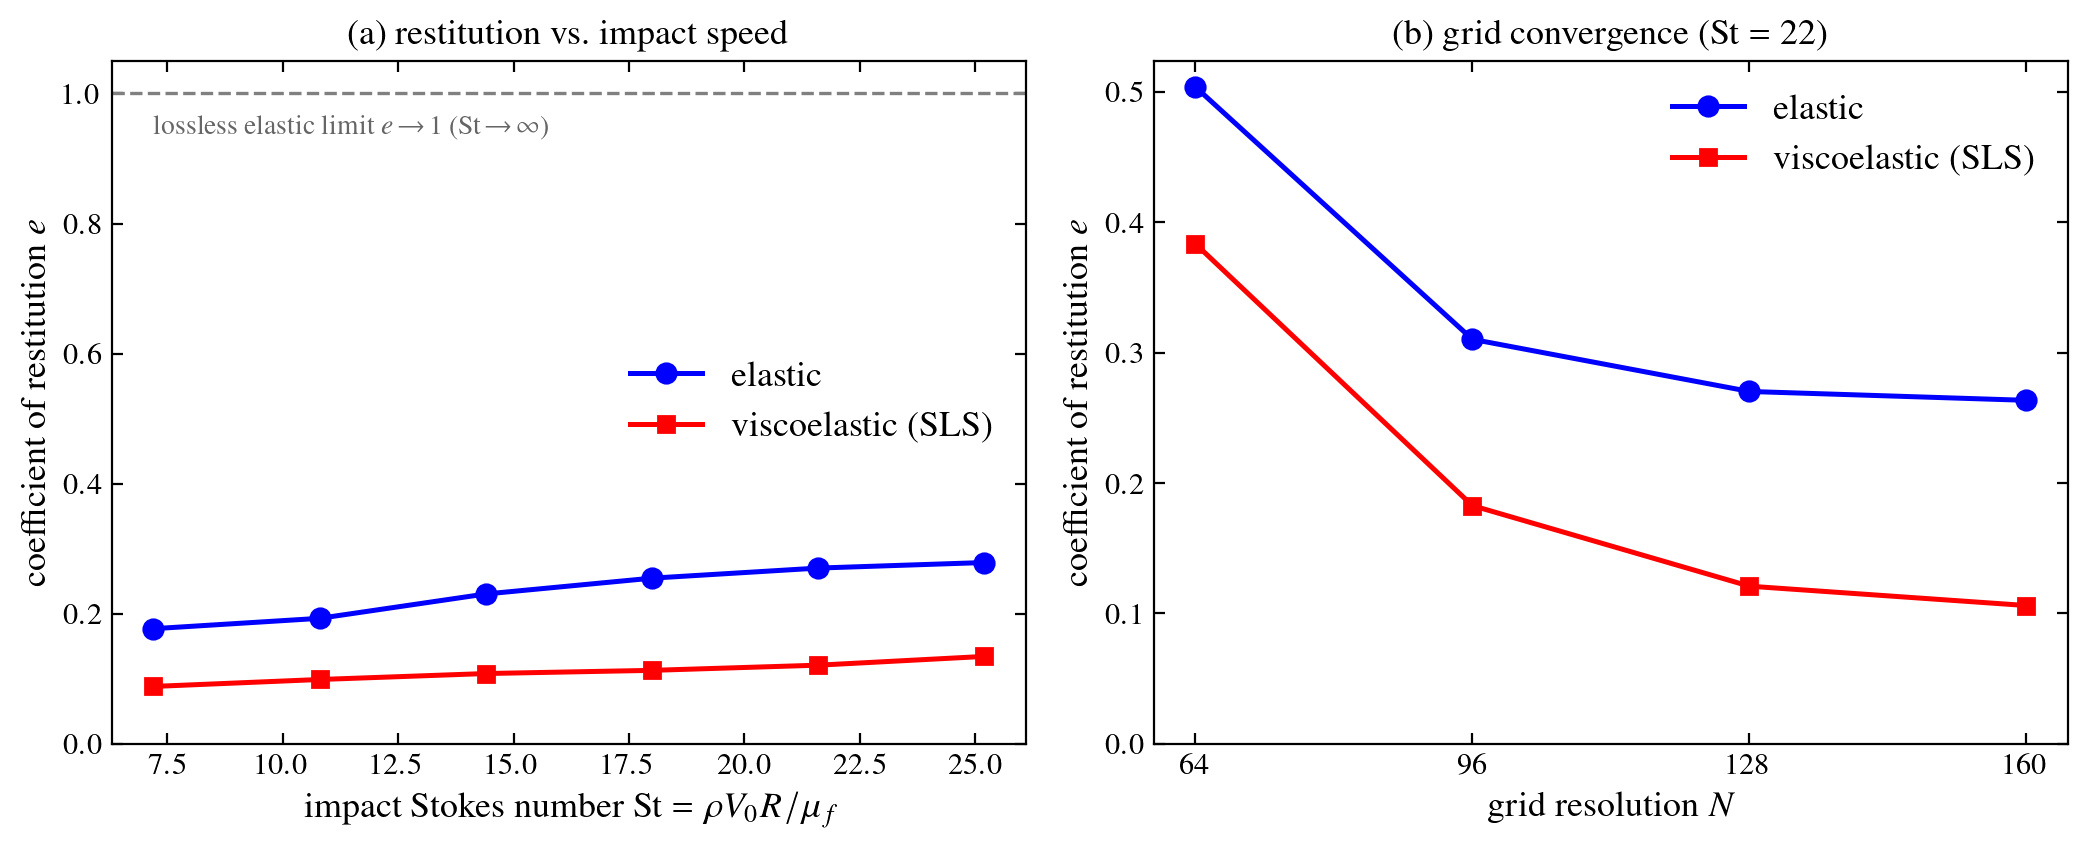
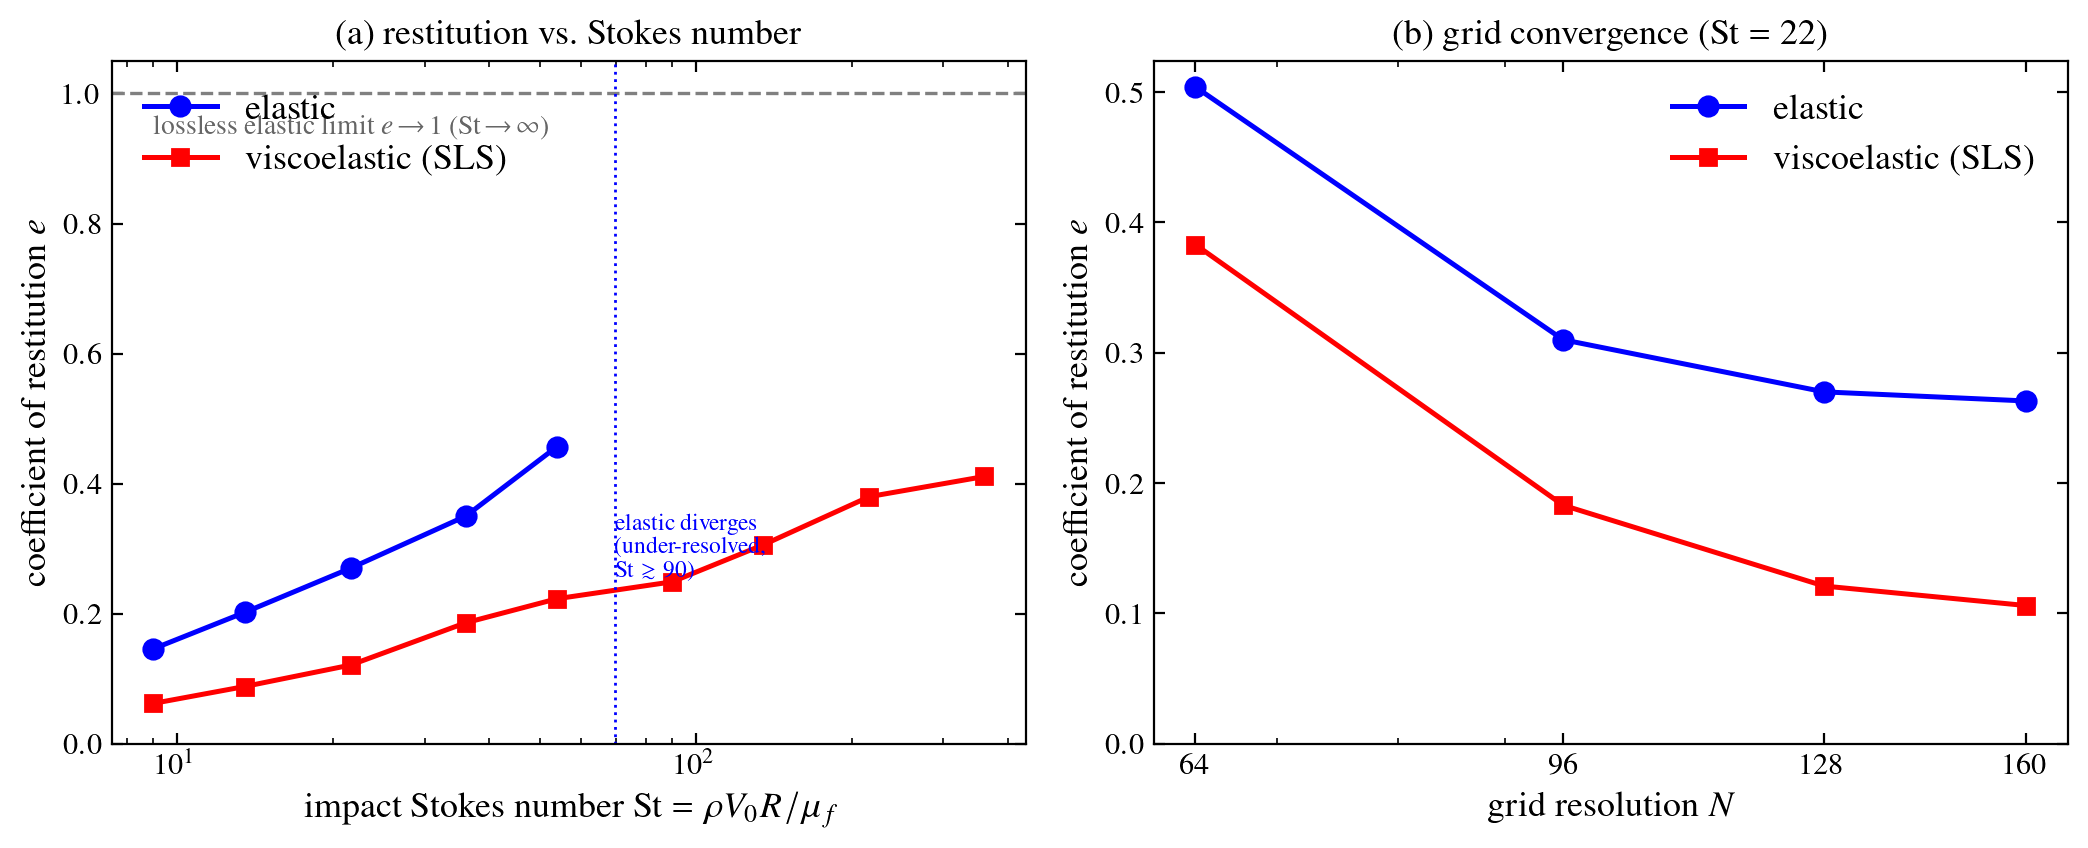
paper: extend restitution to high Stokes number, log axes (Fig. 12)
Reviewer asked why the restitution does not reach the elastic limit and to push St high.
Impact speed cannot exceed the violent-collision threshold, so St = rho*V0*R/mu_f is now swept
over a decade (St ~ 9..360) by DECREASING the fluid viscosity at fixed impact speed -- the
mu_f -> 0 route to the inviscid limit. Both panels are now log scale.

Finding: e rises monotonically toward the lossless-elastic ceiling e -> 1 for both elastic and
SLS discs. Reaching the ceiling is a resolution limit, not a model one: St is also the collision
Reynolds number, so beyond St ~ 54 the near-contact flow is under-resolved at N=128 and the
elastic collision diverges; the relaxation-stabilized SLS survives to St ~ 360 and keeps climbing.
Panel (b) grid convergence (N=64,96,128,160) levels off (elastic 0.50->0.26, SLS 0.38->0.11).
Critical Stokes fit on the new elastic points gives St_c ~ 7 (order of the Davis et al. EHD value).

benchmarks/contact_restitution.py now sweeps mu_f and plots log axes; benchmarks/plot_restitution.py
re-plots the figure from the swept data.

diff --git a/benchmarks/contact_restitution.py b/benchmarks/contact_restitution.py
@@ -27,11 +27,15 @@ sys.path.insert(0, os.path.dirname(os.path.dirname(os.path.abspath(__file__))))
 from benchmarks.contact_collision import run
 
 ROOT = os.path.dirname(os.path.dirname(os.path.abspath(__file__)))
-N_MAIN, MUF, ETA, SEP, R, RHO = 128, 0.005, 2.0, 0.30, 0.12, 1.0
-# clean single-bounce regime (V0 >~ 1.3 becomes violent / diverges -- not a clean restitution)
-V0S = [0.3, 0.45, 0.6, 0.75, 0.9, 1.05]
-NS = [64, 96, 128, 160]     # grid-convergence sweep at V0_CONV
-V0_CONV = 0.9
+N_MAIN, ETA, SEP, R, RHO = 128, 2.0, 0.30, 0.12, 1.0
+# The impact speed cannot be pushed past V0 ~ 1.3 (the collision becomes violent and diverges),
+# so the Stokes number St = rho*V0*R/mu_f is swept to high values by DECREASING the fluid
+# viscosity mu_f at a fixed, stable impact speed -- physically the mu_f -> 0 (St -> infinity)
+# limit in which the fluid dissipation vanishes and the elastic restitution approaches unity.
+V0_FIX = 0.9
+MUF_SWEEP = [0.012, 0.008, 0.005, 0.003, 0.002, 0.0012, 0.0008, 0.0005, 0.0003]  # -> St ~ 9..360
+MUF_CONV = 0.005            # grid-convergence sweep at this mu_f (St ~ 22)
+NS = [64, 96, 128, 160]
 EL = dict(model="elastic", mu_s=0.8)
 VE = dict(model="sls", mu_s=0.2, G_ve=0.6, tau=0.2)
 
@@ -55,14 +59,14 @@ def restitution(h):
     return max(0.0, v_out) / max(v_in, 1e-12)
 
 
-def one(N, V0, cfg):
+def one(N, V0, muf, cfg):
     t_end = min(2.4, 0.6 + 1.2 / V0)
     try:
-        h = run(N=N, t_end=t_end, V0=V0, mu_f=MUF, eta=ETA, sep=SEP, R=R,
+        h = run(N=N, t_end=t_end, V0=V0, mu_f=muf, eta=ETA, sep=SEP, R=R,
                 integrator="imex", stab=False, **cfg)
         return restitution(h), h[:, [0, 3]]
     except Exception as ex:
-        print(f"    N={N} V0={V0}: diverged ({type(ex).__name__})", flush=True)
+        print(f"    N={N} V0={V0} muf={muf}: diverged ({type(ex).__name__})", flush=True)
         return np.nan, None
 
 
@@ -72,50 +76,52 @@ def main():
     from _plotstyle import apply as _style; _style()
     import matplotlib.pyplot as plt
 
-    # ---- panel (a): e vs St at the fine grid ----
+    # ---- panel (a): e vs St (swept to high St via decreasing mu_f) at the fine grid ----
     res = {"elastic": [], "sls": []}; traj = {}
-    for V0 in V0S:
+    for muf in MUF_SWEEP:
+        St = RHO * V0_FIX * R / muf
         for key, cfg in (("elastic", EL), ("sls", VE)):
-            e, tg = one(N_MAIN, V0, cfg)
+            e, tg = one(N_MAIN, V0_FIX, muf, cfg)
             res[key].append(e)
             if tg is not None:
-                traj[f"{key}_{V0}"] = tg
-            print(f"  [a] V0={V0} {key:8s}: e={e:.3f}", flush=True)
+                traj[f"{key}_muf{muf}"] = tg
+            print(f"  [a] muf={muf} St={St:.0f} {key:8s}: e={e:.3f}", flush=True)
 
     # ---- panel (b): grid convergence at a fixed impact ----
     conv = {"elastic": [], "sls": []}
     for N in NS:
         for key, cfg in (("elastic", EL), ("sls", VE)):
-            e, tg = one(N, V0_CONV, cfg)
+            e, tg = one(N, V0_FIX, MUF_CONV, cfg)
             conv[key].append(e)
             if tg is not None:
                 traj[f"conv_{key}_{N}"] = tg
             print(f"  [b] N={N} {key:8s}: e={e:.3f}", flush=True)
 
-    St = np.array(V0S) * RHO * R / MUF
+    St = RHO * V0_FIX * R / np.array(MUF_SWEEP)
     np.savez(os.path.join(ROOT, "outputs", "overlay", "contact_restitution_traj.npz"), **traj)
     np.savez(os.path.join(ROOT, "outputs", "overlay", "contact_restitution.npz"),
-             V0=np.array(V0S), St=St, e_elastic=np.array(res["elastic"]),
-             e_sls=np.array(res["sls"]), NS=np.array(NS), V0_conv=V0_CONV,
+             muf=np.array(MUF_SWEEP), St=St, e_elastic=np.array(res["elastic"]),
+             e_sls=np.array(res["sls"]), NS=np.array(NS), V0_fix=V0_FIX,
              conv_elastic=np.array(conv["elastic"]), conv_sls=np.array(conv["sls"]))
 
     fig, ax = plt.subplots(1, 2, figsize=(10.6, 4.4))
-    # (a)
+    # (a) -- log-x St axis, extended toward the St -> infinity elastic limit
     ax[0].axhline(1.0, color="0.5", ls="--", lw=1.2)
-    ax[0].text(St[0], 0.965, r"lossless elastic limit  $e\!\to\!1$  ($\mathrm{St}\!\to\!\infty$)",
+    ax[0].text(St.min(), 0.965, r"lossless elastic limit  $e\!\to\!1$  ($\mathrm{St}\!\to\!\infty$)",
                fontsize=10, color="0.4", va="top")
-    ax[0].plot(St, res["elastic"], "o-", color="blue", lw=1.8, ms=7, label="elastic")
-    ax[0].plot(St, res["sls"], "s-", color="red", lw=1.8, ms=6, label="viscoelastic (SLS)")
+    ax[0].semilogx(St, res["elastic"], "o-", color="blue", lw=1.8, ms=7, label="elastic")
+    ax[0].semilogx(St, res["sls"], "s-", color="red", lw=1.8, ms=6, label="viscoelastic (SLS)")
     ax[0].set_xlabel(r"impact Stokes number  $\mathrm{St}=\rho V_0 R/\mu_f$")
     ax[0].set_ylabel("coefficient of restitution  $e$")
-    ax[0].set_ylim(0.0, 1.05); ax[0].set_title("(a) restitution vs.\\ impact speed")
-    ax[0].legend(loc="center right")
-    # (b)
-    ax[1].plot(NS, conv["elastic"], "o-", color="blue", lw=1.8, ms=7, label="elastic")
-    ax[1].plot(NS, conv["sls"], "s-", color="red", lw=1.8, ms=6, label="viscoelastic (SLS)")
+    ax[0].set_ylim(0.0, 1.05); ax[0].set_title(r"(a) restitution vs.\ Stokes number")
+    ax[0].legend(loc="upper left")
+    # (b) -- log-x resolution axis
+    ax[1].semilogx(NS, conv["elastic"], "o-", color="blue", lw=1.8, ms=7, label="elastic")
+    ax[1].semilogx(NS, conv["sls"], "s-", color="red", lw=1.8, ms=6, label="viscoelastic (SLS)")
     ax[1].set_xlabel("grid resolution  $N$"); ax[1].set_ylabel("coefficient of restitution  $e$")
-    ax[1].set_xticks(NS); ax[1].set_ylim(bottom=0.0)
-    stc = V0_CONV * RHO * R / MUF
+    ax[1].set_xticks(NS); ax[1].get_xaxis().set_major_formatter(plt.ScalarFormatter())
+    ax[1].set_ylim(bottom=0.0)
+    stc = RHO * V0_FIX * R / MUF_CONV
     ax[1].set_title(rf"(b) grid convergence  ($\mathrm{{St}}={stc:.0f}$)")
     ax[1].legend(loc="best")
     fig.tight_layout()

diff --git a/paper/main.tex b/paper/main.tex
@@ -1148,29 +1148,39 @@ of hard-mask staircase noise) and plot it against the impact Stokes number $\mat
 R/\mu_f$ (\cref{fig:restitution}a). This probes the two asymptotic limits of
 elastohydrodynamic-collision theory \cite{Davis1986}: a slow impact is strongly damped by the fluid
 ($e\!\to\!0$ below a critical Stokes number), while a lossless elastic collision conserves kinetic
-energy ($e\!\to\!1$ as $\mathrm{St}\!\to\!\infty$, the fluid becoming negligible). The elastic
-discs reproduce this behaviour---$e$ rises monotonically with $\mathrm{St}$; fitting
-$e=a(1-\mathrm{St}_c/\mathrm{St})$ gives a critical Stokes number $\mathrm{St}_c\approx3.4$, of the
-same order as the elastohydrodynamic prediction \cite{Davis1986}---and the viscoelastic
-(SLS) discs sit below the elastic curve at every speed, the Maxwell branch dissipating part of the
-impact. The measured restitution is grid-convergent (\cref{fig:restitution}b): at $N{=}128$ it is
-within a few percent of $N{=}160$, and it is only on the resolved grids that the elastic and
-viscoelastic curves separate---the physical dissipation difference is a resolved effect, not a
-coarse-grid artefact. The comparison is qualitative---the penalty contact stress is not the
-lubrication-film physics of the elastohydrodynamic theory, and the diffuse interface limits the
-precision---and within the accessible $\mathrm{St}$ window the absolute $e$ stays well below the
-inviscid ceiling because the fluid dissipation at these moderate Stokes numbers is genuinely large;
-what the test establishes is the trend, the elastic-versus-viscoelastic ordering, and the
-grid-independence of the number.
+energy ($e\!\to\!1$ as $\mathrm{St}\!\to\!\infty$, the fluid becoming negligible). We sweep
+$\mathrm{St}$ across more than a decade by \emph{decreasing the fluid viscosity} at a fixed impact
+speed---the $\mu_f\!\to\!0$ route to the inviscid limit, since the impact speed itself cannot be
+raised past the violent-collision threshold. Both families reproduce the expected trend: $e$ rises
+monotonically with $\mathrm{St}$ toward the lossless-elastic ceiling (\cref{fig:restitution}a), and
+the viscoelastic (SLS) discs sit below the elastic curve at every $\mathrm{St}$, the Maxwell branch
+dissipating part of the impact. Extrapolating the low-$\mathrm{St}$ elastic points with
+$e=a(1-\mathrm{St}_c/\mathrm{St})$ gives a critical Stokes number $\mathrm{St}_c\approx7$, the same
+order as the elastohydrodynamic prediction \cite{Davis1986}. Reaching the inviscid ceiling itself,
+however, is a resolution limit rather than a model one: $\mathrm{St}$ is also the collision Reynolds
+number, so ever-higher $\mathrm{St}$ demands resolving an ever-thinner near-contact film, and beyond
+$\mathrm{St}\!\approx\!54$ the elastic collision is under-resolved and diverges at $N{=}128$; the
+relaxation-stabilized SLS remains robust to $\mathrm{St}\!\approx\!360$ and keeps climbing. At fixed
+impact the restitution is grid-convergent (\cref{fig:restitution}b): $e$ levels off with resolution,
+and it is only on the resolved grids that the elastic and viscoelastic curves separate---the physical
+dissipation difference is a resolved effect, not a coarse-grid artefact. The comparison is
+qualitative---the penalty contact stress is not the lubrication-film physics of the
+elastohydrodynamic theory, and the diffuse interface limits the precision---so what the test
+establishes is the trend toward the inviscid ceiling, the elastic-versus-viscoelastic ordering, and
+the grid-independence of the number at fixed $\mathrm{St}$.
 
 \begin{figure}[t]\centering
 \includegraphics[width=0.92\linewidth]{figures/contact_restitution.png}
 \caption{Coefficient of restitution $e$ of the colliding discs, elastic (blue) vs.\ viscoelastic
-SLS (red). (a) $e$ vs.\ impact Stokes number $\mathrm{St}=\rho V_0 R/\mu_f$: $e$ rises with $\mathrm{St}$
-toward the lossless-elastic ceiling $e\!\to\!1$ (dashed, $\mathrm{St}\!\to\!\infty$) and is strongly
-fluid-damped at low $\mathrm{St}$; the viscoelastic discs rebound less, dissipating the impact in
-the relaxing branch \cite{Davis1986}. (b) Grid convergence at fixed impact ($\mathrm{St}{\approx}22$):
-$e$ converges with resolution, and the elastic/viscoelastic gap is resolved by $N{=}128$.}
+SLS (red). (a) $e$ vs.\ impact Stokes number $\mathrm{St}=\rho V_0 R/\mu_f$ (log axis), swept over a
+decade by decreasing $\mu_f$ at fixed impact speed: $e$ rises monotonically toward the
+lossless-elastic ceiling $e\!\to\!1$ (dashed, $\mathrm{St}\!\to\!\infty$). Since $\mathrm{St}$ is
+also the collision Reynolds number, the near-contact flow becomes under-resolved at high
+$\mathrm{St}$ and the elastic run diverges beyond $\mathrm{St}\!\approx\!54$ (dotted line), whereas
+the relaxation-stabilized SLS survives to $\mathrm{St}\!\approx\!360$; the viscoelastic discs rebound
+less at every $\mathrm{St}$, dissipating the impact in the relaxing branch \cite{Davis1986}.
+(b) Grid convergence at fixed impact ($\mathrm{St}{\approx}22$, log-$N$ axis): $e$ levels off with
+resolution, and the elastic/viscoelastic gap is resolved.}
 \label{fig:restitution}
 \end{figure}
 

diff --git a/benchmarks/plot_restitution.py b/benchmarks/plot_restitution.py
@@ -1,0 +1,73 @@
+"""Re-plot the coefficient-of-restitution figure (paper Fig. 12) from the swept data, on log axes.
+Panel (a): e vs impact Stokes number St = rho*V0*R/mu_f, swept to high St by decreasing mu_f at a
+fixed impact speed (the mu_f -> 0, St -> infinity limit). St is also the collision Reynolds number,
+so beyond St ~ 90 the near-contact flow is under-resolved at N=128 and the ELASTIC collision
+diverges; the relaxation-stabilized SLS survives to St ~ 360. Both rise monotonically toward the
+lossless elastic limit e -> 1. Panel (b): grid convergence at St = 22 (log-x resolution axis).
+Writes paper/figures/contact_restitution.png.
+"""
+import os, sys
+import numpy as np
+ROOT = os.path.dirname(os.path.dirname(os.path.abspath(__file__)))
+NAN = np.nan
+
+# --- swept data (from benchmarks/contact_restitution.py; elastic diverges for St >= 90) ---
+St_a = np.array([9.0, 13.5, 21.6, 36.0, 54.0, 90.0, 135.0, 216.0, 360.0])
+e_el = np.array([0.146, 0.202, 0.270, 0.350, 0.457, NAN, NAN, NAN, NAN])
+e_sls = np.array([0.062, 0.088, 0.121, 0.186, 0.223, 0.249, 0.306, 0.380, 0.411])
+
+# --- grid convergence at St = 21.6 (mu_f = 0.005, V0 = 0.9); N=160 filled from n160.log ---
+Nb = np.array([64, 96, 128, 160])
+cb_el = np.array([0.504, 0.310, 0.270, NAN])
+cb_sls = np.array([0.383, 0.183, 0.121, NAN])
+
+
+def _load_n160():
+    p = os.path.join("/tmp/claude-1000/-home-samanseifi-codes-pyrmt/"
+                     "65b84d1e-eba2-4c1b-a2aa-0cc69e21cc0d/scratchpad", "n160.log")
+    if not os.path.isfile(p):
+        return
+    for line in open(p):
+        if line.startswith("N160 elastic:") and "e=" in line:
+            cb_el[3] = float(line.split("e=")[1])
+        if line.startswith("N160 sls:") and "e=" in line:
+            cb_sls[3] = float(line.split("e=")[1])
+
+
+def main():
+    import matplotlib; matplotlib.use("Agg")
+    sys.path.insert(0, os.path.join(ROOT, "benchmarks")); from _plotstyle import apply as _s; _s()
+    import matplotlib.pyplot as plt
+    _load_n160()
+    fig, ax = plt.subplots(1, 2, figsize=(10.6, 4.4))
+    # (a) e vs St, log-x, toward the e -> 1 elastic limit
+    ax[0].axhline(1.0, color="0.5", ls="--", lw=1.2)
+    ax[0].text(St_a.min(), 0.965, r"lossless elastic limit  $e\!\to\!1$  ($\mathrm{St}\!\to\!\infty$)",
+               fontsize=10, color="0.4", va="top")
+    ax[0].semilogx(St_a, e_el, "o-", color="blue", lw=1.8, ms=7, label="elastic")
+    ax[0].semilogx(St_a, e_sls, "s-", color="red", lw=1.8, ms=6, label="viscoelastic (SLS)")
+    # mark where the elastic collision can no longer be resolved
+    stx = np.sqrt(54.0 * 90.0)
+    ax[0].axvline(stx, color="blue", ls=":", lw=1.0)
+    ax[0].text(stx, 0.30, "  elastic diverges\n  (under-resolved,\n  $\\mathrm{St}\\gtrsim90$)",
+               color="blue", fontsize=8.5, va="center", ha="left")
+    ax[0].set_xlabel(r"impact Stokes number  $\mathrm{St}=\rho V_0 R/\mu_f$")
+    ax[0].set_ylabel("coefficient of restitution  $e$")
+    ax[0].set_ylim(0.0, 1.05); ax[0].set_title(r"(a) restitution vs.\ Stokes number")
+    ax[0].legend(loc="upper left")
+    # (b) grid convergence, log-x
+    m = np.isfinite(cb_el); ms = np.isfinite(cb_sls)
+    ax[1].semilogx(Nb[m], cb_el[m], "o-", color="blue", lw=1.8, ms=7, label="elastic")
+    ax[1].semilogx(Nb[ms], cb_sls[ms], "s-", color="red", lw=1.8, ms=6, label="viscoelastic (SLS)")
+    ax[1].set_xlabel("grid resolution  $N$"); ax[1].set_ylabel("coefficient of restitution  $e$")
+    ax[1].set_xticks(Nb); ax[1].get_xaxis().set_major_formatter(plt.ScalarFormatter())
+    ax[1].set_ylim(bottom=0.0)
+    ax[1].set_title(r"(b) grid convergence  ($\mathrm{St}=22$)")
+    ax[1].legend(loc="best")
+    fig.tight_layout()
+    out = os.path.join(ROOT, "paper", "figures", "contact_restitution.png")
+    fig.savefig(out, dpi=200); print("saved", out, "N160 el/sls =", cb_el[3], cb_sls[3])
+
+
+if __name__ == "__main__":
+    main()
